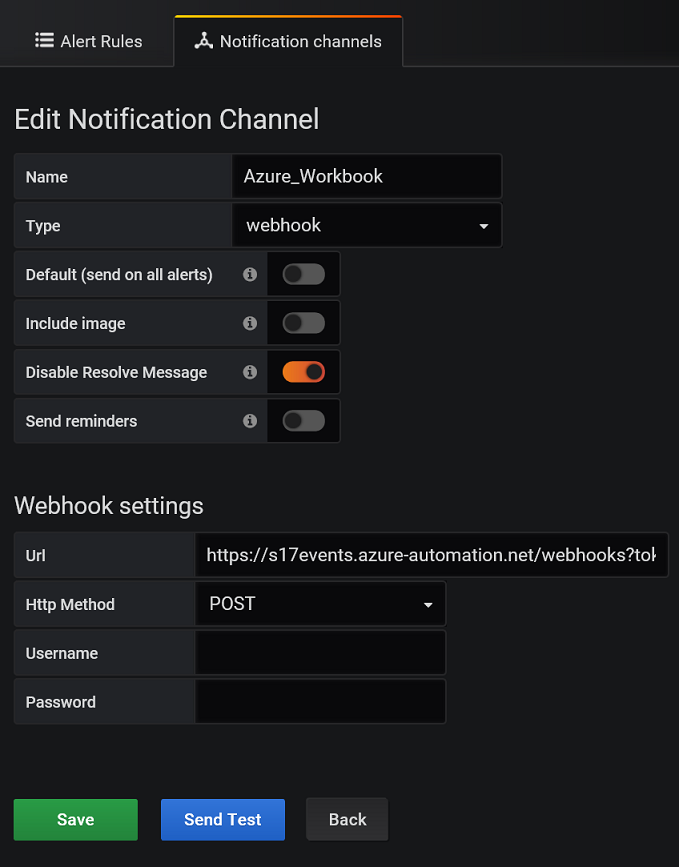
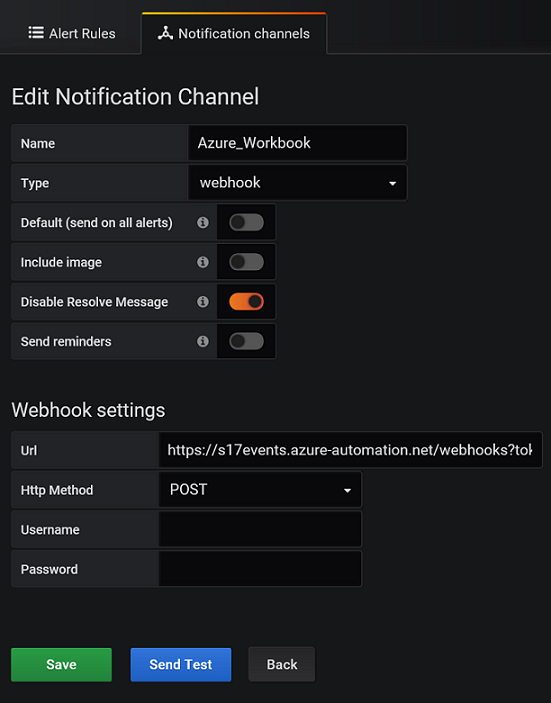
Modified the size of notificationchannel.PNG

diff --git a/README.md b/README.md
@@ -30,7 +30,7 @@ Once logged in follow the guidline to create a dashboard.
 To configure InfluxDB as data source, uncheck everything for AUTH and put machine_information as Databasename.
 Once you have the data source configured, it would be very intuitive to create generic panels in dashboard, 
 which will be omitted in thie article. We are going to up right into how to setup alerting.  
-First we need to notification channels in Alerting. 
+First we need to configure a notification channels in Alerting. 
 
 ![alt text](https://raw.githubusercontent.com/AzureLGPod/Grafana-Influxdb-python/master/img/notificationchannel.PNG)
 
